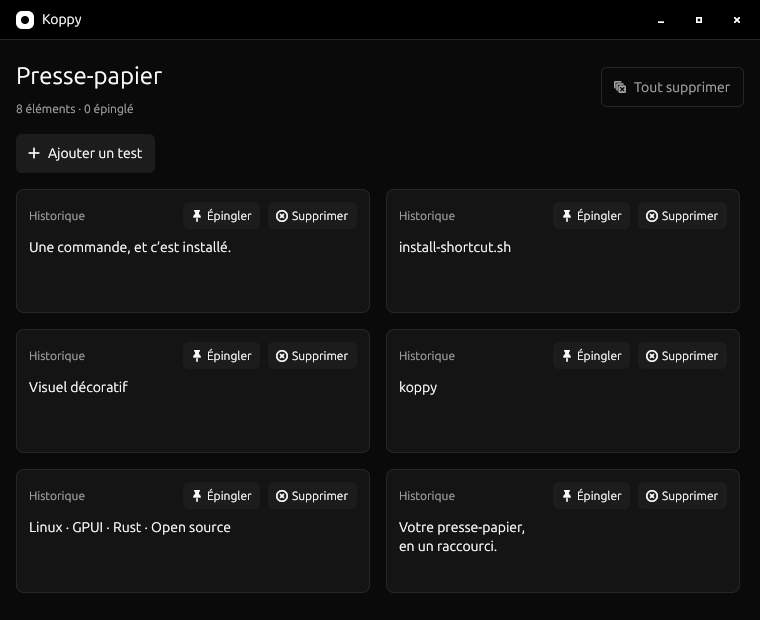
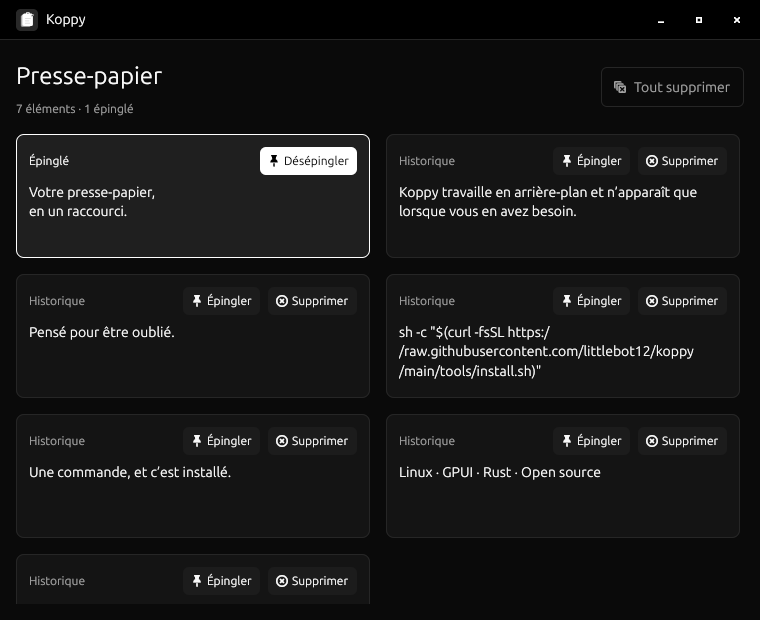
Add LICENSE file and update documentation for MIT license compliance

diff --git a/docs/index.html b/docs/index.html
@@ -228,6 +228,9 @@
       <a href="https://github.com/littlebot12/koppy" target="_blank" rel="noopener noreferrer" aria-label="Voir le code source sur GitHub — ouvre un nouvel onglet">
         Code source <svg class="icon" aria-hidden="true"><use href="#i-external"></use></svg>
       </a>
+      <a href="https://github.com/littlebot12/koppy/blob/main/LICENSE" target="_blank" rel="noopener noreferrer" aria-label="Lire la licence MIT — ouvre un nouvel onglet">
+        Licence MIT <svg class="icon" aria-hidden="true"><use href="#i-external"></use></svg>
+      </a>
     </div>
   </footer>
 

diff --git a/README.md b/README.md
@@ -96,3 +96,7 @@ code avec Clippy (`-D warnings`) et produit une archive
 
 Le binaire étant lié à glibc 2.39 (Ubuntu 24.04), il faut une distribution
 égale ou plus récente pour l'exécuter.
+
+## Licence
+
+Koppy est distribué sous licence [MIT](LICENSE).
